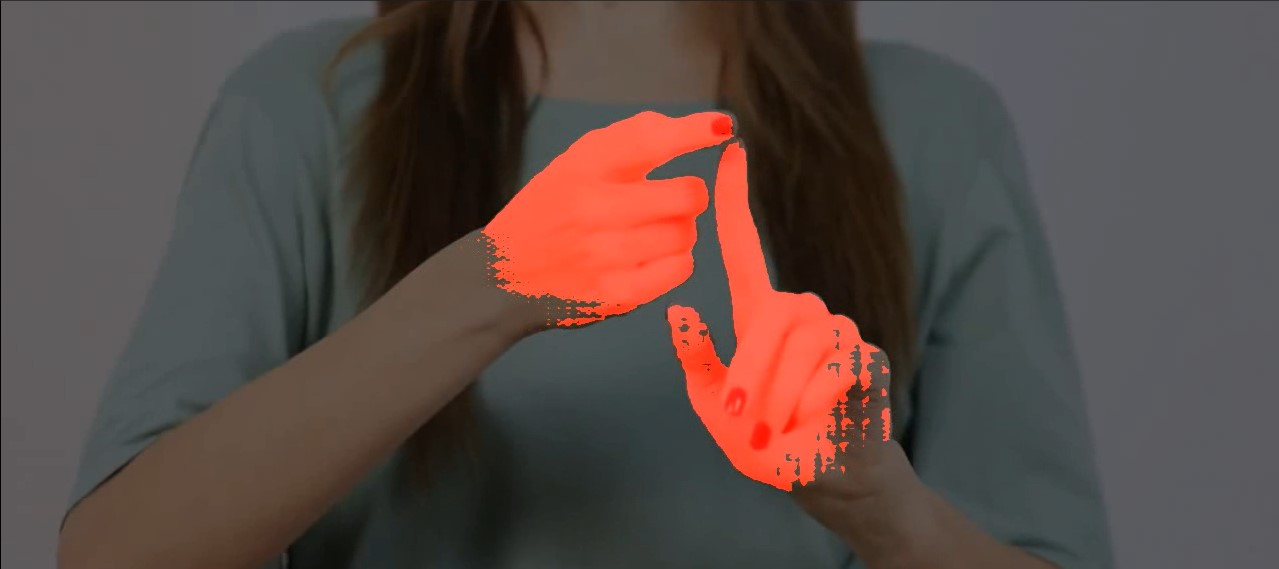
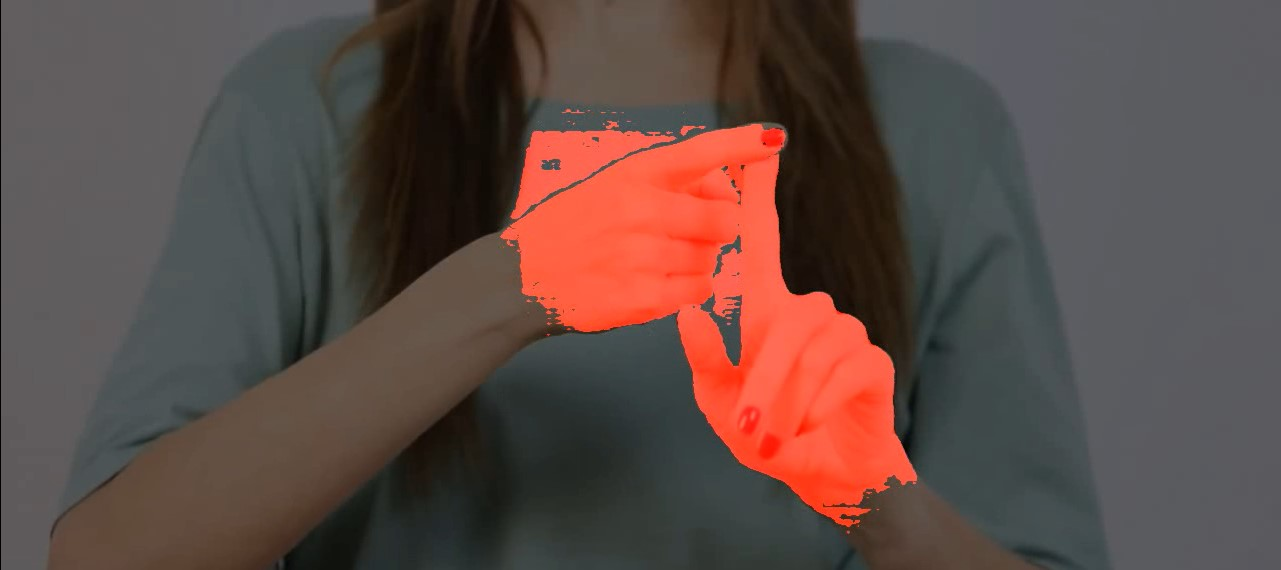
fourth commit

diff --git a/README.md b/README.md
@@ -33,9 +33,14 @@ Two approaches are used:
 - **Frame-by-Frame Processing**: This method consumes less time but the masks are a bit less satisfactory.
 - **Video Propagation-Based Hand Tracking**: This approach takes more time but generates better masks for hands using the SAM2 video propagation feature.
 
-![Original Image](ori.jpg)
-![Frame-by-Frame Method](frame.jpg)
-![Video Propagation Method](video.jpg)
+<h2>Original Image</h2>
+<div style="display: flex; justify-content: space-around;">
+  <img src="ori.jpg" width="300" alt="Original Image">
+  <img src="frame.jpg" width="300" alt="Frame-by-Frame Method">
+  <img src="video.jpg" width="300" alt="Video Propagation Method">
+</div>
+
+
 
 ## Downloading the Pretrained Checkpoint
 To run the segmentation with SAM2, you need the pretrained checkpoint file sam2_hiera_large.pt. You can download it by setting the following URL:
